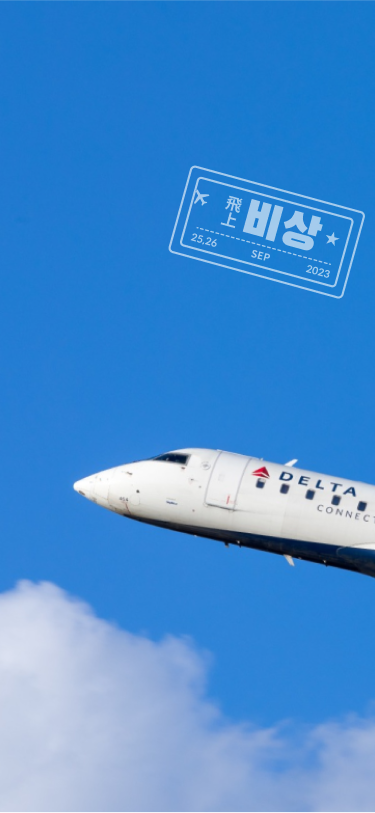
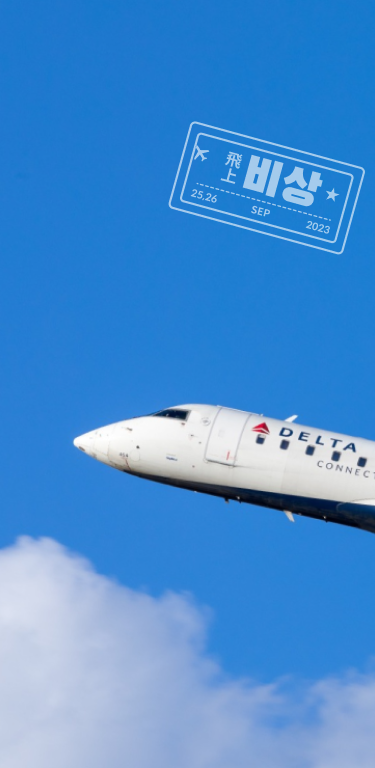
메인 페이지 반응형 처리 완료

diff --git a/frontend/src/styles/components/MainPage/MainView.scss b/frontend/src/styles/components/MainPage/MainView.scss
@@ -1,49 +1,57 @@
-.MainView_Container1 {
-    display: flex;
-    flex-direction: column;
-    width: 100%;
-    height : 100vh;
-    background-image: url('../../../assets/MainPage/MainBackground1.png');
-    background-size: cover;
-}
-
+.MainView_Container1,
 .MainView_Container2 {
     display: flex;
     flex-direction: column;
+
     width: 100%;
-    height : 100vh;
-    background-image: url('../../../assets/MainPage/MainBackground2.png');
+    height: calc(var(--vh, 1vh) * 100);
+
     background-size: cover;
+    background-position: center; /* 추가 */
+}
+.MainView_Container1 {
+    background-image: url('../../../assets/MainPage/MainBackground1.png');
+}
+.MainView_Container2 {
+    background-image: url('../../../assets/MainPage/MainBackground2.png');
 }
 
 .MainView_TextBox {
+    width: auto;
+    height: 101px;
+    
     color: #FFF;
     text-shadow: 0px 4px 4px rgba(0, 0, 0, 0.25);
 
     margin-left : 20px;
-    margin-bottom: auto;
+    margin-top : calc(24vh);
+}
+.MainView_Text1,
+.MainView_Text2,
+.MainView_Text3 {
+    font-style: bold;
+}
 
-    .MainView_Text1 {
-        font-family: Roboto;
-        font-style: bold;
-        font-size: 20px;
-        margin-top : 230px;
-        font-weight: 700;
-    }
-    .MainView_Text2 {
-        font-family: 'Black Han Sans';
-        font-size: 44px;
-        font-style: bold;
-        font-weight: 900;
-        letter-spacing: -2px;
-        margin-top : 12px;
-    }
-    .MainView_Text3 {
-        font-family: 'Black Han Sans';
-        font-size: 36px;
-        color: #FFF;
-        font-weight: 900;
-    }
+.MainView_Text2,
+.MainView_Text3 {
+    font-family: 'Black Han Sans';
+    font-weight: 900;
+}
+
+.MainView_Text1 {
+    font-family: Roboto;
+    font-size: 20px;
+    font-weight: 700;
+}
+
+.MainView_Text2 {
+    font-size: 44px;
+    letter-spacing: -2px;
+    margin-top : 12px;
+}
+
+.MainView_Text3 {
+    font-size: 36px;
 }
 
 .MainView_Count {
@@ -55,9 +63,7 @@
     font-family: Spoqa Han Sans Neo;
     font-size: 24px;
     font-weight: 700;
-    line-height: 8.877px; /* 36.985% */
-    margin-top : auto;
-    margin-bottom: auto;
+    margin-top : calc(27vh);
     margin-left : 38px;
 }
 
@@ -67,4 +73,30 @@
     display: flex;
     flex-direction: row;
     margin-top : 20px;
+}
+
+@keyframes shake {
+    0% { transform: translateY(0); }
+    50% { transform: translateY(5px); }
+    100% { transform: translateY(0); }
+}
+
+.MainView_Bottom {
+    display: flex;
+    flex-direction: column;
+    width: 100%;
+    
+    justify-content: center;
+    align-items: center;
+
+    margin-top : calc(8vh);
+    animation: shake 1s infinite;
+
+    .MainView_Bottom_Text {
+        color: #FFF;
+        font-family: Pretendard;
+        font-size: 20px;
+        font-weight: 500;
+        margin-bottom: 4px;
+    }
 }

diff --git a/frontend/src/components/presentation/MainPage/CreatorView.jsx b/frontend/src/components/presentation/MainPage/CreatorView.jsx
@@ -8,25 +8,27 @@ import SchoolImage from "../../../assets/MainPage/School.png"
 const CreatorView = () => {
   return (
     <div className="CreatorView_Container">
-      <div className="Creator_Text">
-        <p>🤷 누가 만들었나요?</p>
+      <div className="CreatorView_Wrapper">
+        <div className="Creator_Text">
+          <p>🤷 누가 만들었나요?</p>
+        </div>
+        <div className="creator_box_container">
+          <CreatorBoxContainer
+            title="Switch 총학생회"
+            description=">"
+            image={SchoolImage}
+          />
+          <CreatorBoxContainer
+            title="멋쟁이 사자처럼"
+            description=">"
+            image={likelionImage}
+          />
+          <CreatorBoxContainer
+            title="커뮤니케이션 디자인전공"
+            description=">"
+            image={DesignImage}
+          />
       </div>
-      <div className="creator_box_container">
-        <CreatorBoxContainer
-          title="Switch 총학생회"
-          description=">"
-          image={SchoolImage}
-        />
-        <CreatorBoxContainer
-          title="멋쟁이 사자처럼"
-          description=">"
-          image={likelionImage}
-        />
-        <CreatorBoxContainer
-          title="커뮤니케이션 디자인전공"
-          description=">"
-          image={DesignImage}
-        />
       </div>
     </div>
   )

diff --git a/frontend/src/components/presentation/MainPage/MainView.jsx b/frontend/src/components/presentation/MainPage/MainView.jsx
@@ -1,6 +1,7 @@
 import React from 'react';
 import '../../../styles/components/MainPage/MainView.scss';
 import NumberBoxContainer from '../../container/MainPage/NumberBoxContainer';
+import Down from '../../../assets/MainPage/keyboard_arrow_up.svg';
 
 const MainView = ({numbers, isNight}) => {
     return (
@@ -14,8 +15,12 @@ const MainView = ({numbers, isNight}) => {
                 ✈ 누적 방문자 수
                 <div className='Count_Box'>
                     {numbers.map((number, index) => <NumberBoxContainer key={index} value={number} index={index} />)}
-                    <div style={{paddingTop: '70px'}}>명</div>
+                    <div style={{paddingTop: '60px'}}>명</div>
                 </div>
+            </div>
+            <div className='MainView_Bottom'>
+                <div className='MainView_Bottom_Text'>밑으로 스크롤</div>
+                <img src={Down} alt=''/>
             </div>
         </div>
     );

diff --git a/frontend/src/styles/components/common/Menu.scss b/frontend/src/styles/components/common/Menu.scss
@@ -1,6 +1,6 @@
 /* modal창 외부화면 */
 .Modal {
-    background-color: rgb(255, 255, 255);
+    background-color: rgba(0, 0, 0, 0);
     color: rgba(0, 0, 0, 0.87);
 
     transition: box-shadow 300ms cubic-bezier(0.4, 0, 0.2, 1) 0ms;
@@ -13,18 +13,18 @@
     display: flex;
     flex-direction: column;
 
-    width: 300px;
+    width: 100%;
     height: 100%;
-    flex: 1 0 auto;
+    flex: 1;
 
     position: fixed;
     top: 0px;
     right: 0px;
+    align-items: flex-end;
     border-radius: 10px 0 0 10px;
 
     z-index: 1000; // 김승찬 추가
     overflow: hidden;
-    animation: change 1s ease forwards;
 }
 
 @keyframes change {
@@ -40,6 +40,7 @@
 
 /* modal창 */
 .modalBody {
+  animation: change 1s ease forwards;
   display: flex;
   flex-direction: column;
   width: 300px;
@@ -118,7 +119,7 @@
     .Airplane {
       position: absolute;
       top : 149px;
-      left : 100px;
+      right : 169px;
     }
   }
 }

diff --git a/frontend/public/index.html b/frontend/public/index.html
@@ -36,9 +36,10 @@
         padding : 0;
         margin : 0 auto;
         max-width: 450px;
-        max-height : 2000px;
+        height : 100vh;
         touch-action: pan-y pan-x;
         -webkit-tap-highlight-color:transparent;
+        
       }
       img {
         touch-action: pan-y pan-x;
@@ -47,6 +48,16 @@
         touch-action: pan-y pan-x;
       }
     </style>
+    <script>
+      let vh = window.innerHeight * 0.01;
+      console.log(vh);
+      document.documentElement.style.setProperty("--vh", `${vh}px`);
+      window.addEventListener("resize", () => {
+      console.log("resize");
+      let vh = window.innerHeight * 0.01;
+      document.documentElement.style.setProperty("--vh", `${vh}px`);
+      });
+    </script>
   </head>
   <body>
     <noscript>You need to enable JavaScript to run this app.</noscript>

diff --git a/frontend/src/pages/MainPage.jsx b/frontend/src/pages/MainPage.jsx
@@ -12,11 +12,11 @@ const MainPage = () => {
         <>
             <HeaderContainer name = {undefined} type = {2} opacity={true}/>
             <MainViewContainer/>
-            <div style={{height:'100vh'}}>
+            <div style={{height:'calc(var(--vh, 1vh) * 100)'}}>
                 <EventView/>
                 <TimelineViewContainer />
             </div>
-            <div style={{height:'100vh'}}>
+            <div style={{height:'calc(var(--vh, 1vh) * 100)'}}>
                 <BoothViewContainer />
                 <CreatorView />
             </div>

diff --git a/frontend/src/pages/EventPage.jsx b/frontend/src/pages/EventPage.jsx
@@ -3,7 +3,7 @@ import HeaderContainer from '../components/container/common/HeaderContainer';
 import Footer from '../components/common/Footer';
 import EventCategoryContainer from '../components/container/EventPage/EventCategoryContainer';
 
-const CreatorPage = () => {
+const EventPage = () => {
     return (
         <>
             <HeaderContainer name = {undefined} type = {1} opacity={false}/>
@@ -13,4 +13,4 @@ const CreatorPage = () => {
     );
 };
 
-export default CreatorPage;
+export default EventPage;

diff --git a/frontend/src/styles/components/common/Header.scss b/frontend/src/styles/components/common/Header.scss
@@ -2,7 +2,7 @@
     display: flex;
 
     width : 100%;
-    height : 80px;
+    height : 90px;
     overflow-x: hidden;
 
     align-items: center;
@@ -24,8 +24,8 @@
     justify-content: center;
 
     position: absolute;
-    top: 0;
-    left : 0;
+    top:0;
+    left:0;
 }
 
 .Header_Wrapper {
@@ -34,8 +34,7 @@
 
     align-items: center;
     justify-content: center;
-    margin-left : 16px;
-    margin-right : 20px;
+    margin : 0 auto;
 }
 
 .Header_Props {

diff --git a/frontend/src/api/fetchCount.jsx b/frontend/src/api/fetchCount.jsx
@@ -1,7 +1,7 @@
 import axios from 'axios';
 
 export const fetchCount = async () => {
-  const url = 'https://0031fec4-a52c-4b21-a961-fc0c19b07a45.mock.pstmn.io';
+  const url = 'https://b5a7d179-1cf6-49ed-80be-9342575e6646.mock.pstmn.io';
   try {
     const response = await axios.get(`${url}/api/visitor/count`);
     return response.data.count; // 데이터는 response.data 안에 들어있습니다.

diff --git a/frontend/src/api/fetchDressCode.jsx b/frontend/src/api/fetchDressCode.jsx
@@ -1,7 +1,7 @@
 import axios from 'axios';
 
 export const fetchDressCode = async () => {
-    const url = 'https://0031fec4-a52c-4b21-a961-fc0c19b07a45.mock.pstmn.io';
+    const url = 'https://b5a7d179-1cf6-49ed-80be-9342575e6646.mock.pstmn.io';
     try {
       const response = await axios.get(`${url}/dress`);
       return response.data; // 데이터는 response.data 안에 들어있습니다.

diff --git a/frontend/src/api/fetchBoxState.jsx b/frontend/src/api/fetchBoxState.jsx
@@ -1,7 +1,7 @@
 import axios from 'axios';
 
 export const fetchBoxState = async () => {
-    const url = 'https://0031fec4-a52c-4b21-a961-fc0c19b07a45.mock.pstmn.io';
+    const url = 'https://b5a7d179-1cf6-49ed-80be-9342575e6646.mock.pstmn.io';
     try {
       const response = await axios.get(`${url}/box`);
       return response.data; // 데이터는 response.data 안에 들어있습니다.

diff --git a/frontend/src/api/postLogin.jsx b/frontend/src/api/postLogin.jsx
@@ -2,7 +2,7 @@ import axios from 'axios';
 
 export const login = async ({ username, password }) => {
 
-  const url = 'https://0031fec4-a52c-4b21-a961-fc0c19b07a45.mock.pstmn.io'
+  const url = 'https://b5a7d179-1cf6-49ed-80be-9342575e6646.mock.pstmn.io'
   const response = await axios.post(`${url}/api/login`, { username, password });
   return response.data.success;
 };
